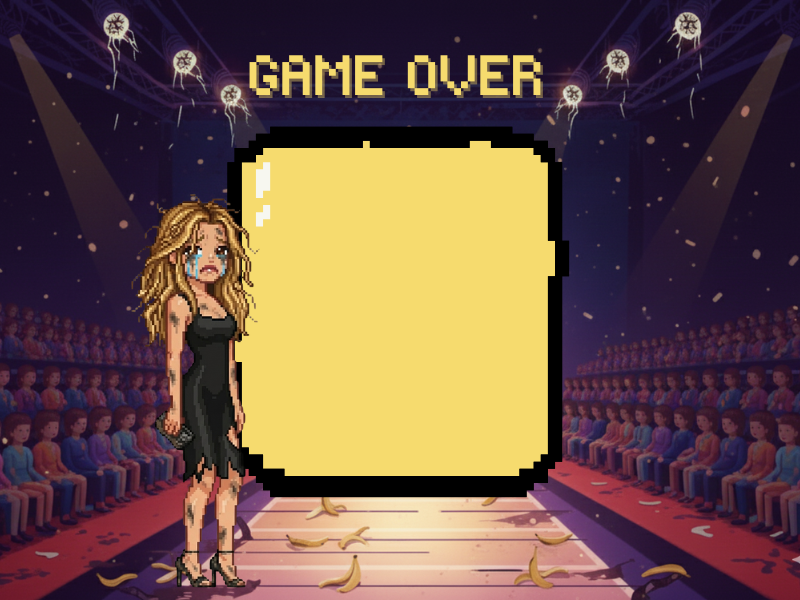
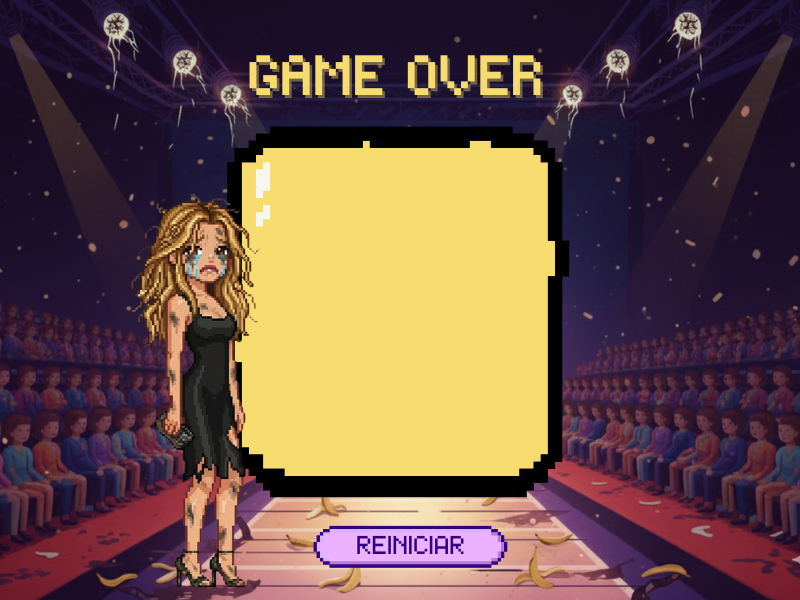
fix([botões]): finalizando botões

Changed region(s): [[0.375, 0.87, 0.6562, 0.96]]

diff --git a/src/cenarios/tela_final.py b/src/cenarios/tela_final.py
@@ -20,9 +20,16 @@ class TelaFinal:
         dir_cenario = os.path.join('assets', 'telas de transição')
         self.bg = pg.image.load(os.path.join(dir_cenario, nome_fundo)).convert()
         self.bg = pg.transform.smoothscale(self.bg, self.screen.get_size())
-        
-        self.img_botao = pg.image.load(os.path.join(dir_cenario, "botao_reiniciar.png")).convert_alpha()
-        
+                
+        w, h = self.screen.get_size()
+
+        self.rect_click_botao = pg.Rect(
+            int(w * 0.39),
+            int(h * 0.88),
+            int(w * 0.24),
+            int(h * 0.06)
+        )
+
         # Fontes .ttf
         caminho_fonte = os.path.join('assets', 'fonte', 'fonte.ttf')
         self.fonte_titulo = pg.font.Font(caminho_fonte, 26)
@@ -33,9 +40,6 @@ class TelaFinal:
         self.x_caixa = 275  
         self.y_caixa = 165
         self.largura_caixa = 450
-        self.rect_botao = self.img_botao.get_rect(
-            center=(self.screen.get_width() // 2, self.screen.get_height() * 0.9)
-        )
 
     def obter_frases(self):
         frases = []
@@ -96,19 +100,24 @@ class TelaFinal:
             y_atual = self.draw_texto_quebrado(frase, self.x_caixa + 35, y_atual, self.largura_caixa)
             y_atual += 12 
 
-        # Desenhar botão reiniciar
-        self.screen.blit(self.img_botao, self.rect_botao)
+        # teste (apagar)
+        pg.draw.rect(self.screen, (255, 0, 0), self.rect_click_botao, 2)
 
     def run(self):
         while True:
             for event in pg.event.get():
                 if event.type == pg.QUIT:
-                    pg.quit()
-                    sys.exit()
+                    return False  # sair do jogo
 
                 if event.type == pg.KEYDOWN:
-                    if event.key in (pg.K_RETURN, pg.K_ESCAPE):
-                        return  # volta pra main
+                    if event.key == pg.K_RETURN:
+                        return True   # reiniciar
+                    if event.key == pg.K_ESCAPE:
+                        return False  # sair do jogo
+                        
+                if event.type == pg.MOUSEBUTTONDOWN:
+                    if self.rect_click_botao.collidepoint(event.pos):
+                        return True   # reiniciar
 
             self.draw()
             pg.display.flip()

diff --git a/src/cenarios/tela_inicial.py b/src/cenarios/tela_inicial.py
@@ -44,10 +44,6 @@ class TelaInicial:
 
     def desenhar(self):
         self.screen.blit(self.bg, (0, 0))
-        
-        # teste (apagar)
-        pg.draw.rect(self.screen, (255, 0, 0), self.btn_iniciar, 2)
-        pg.draw.rect(self.screen, (0, 255, 0), self.btn_instrucoes, 2)
 
         if self.mostrando_instrucoes:
             self.desenhar_overlay_instrucoes()
